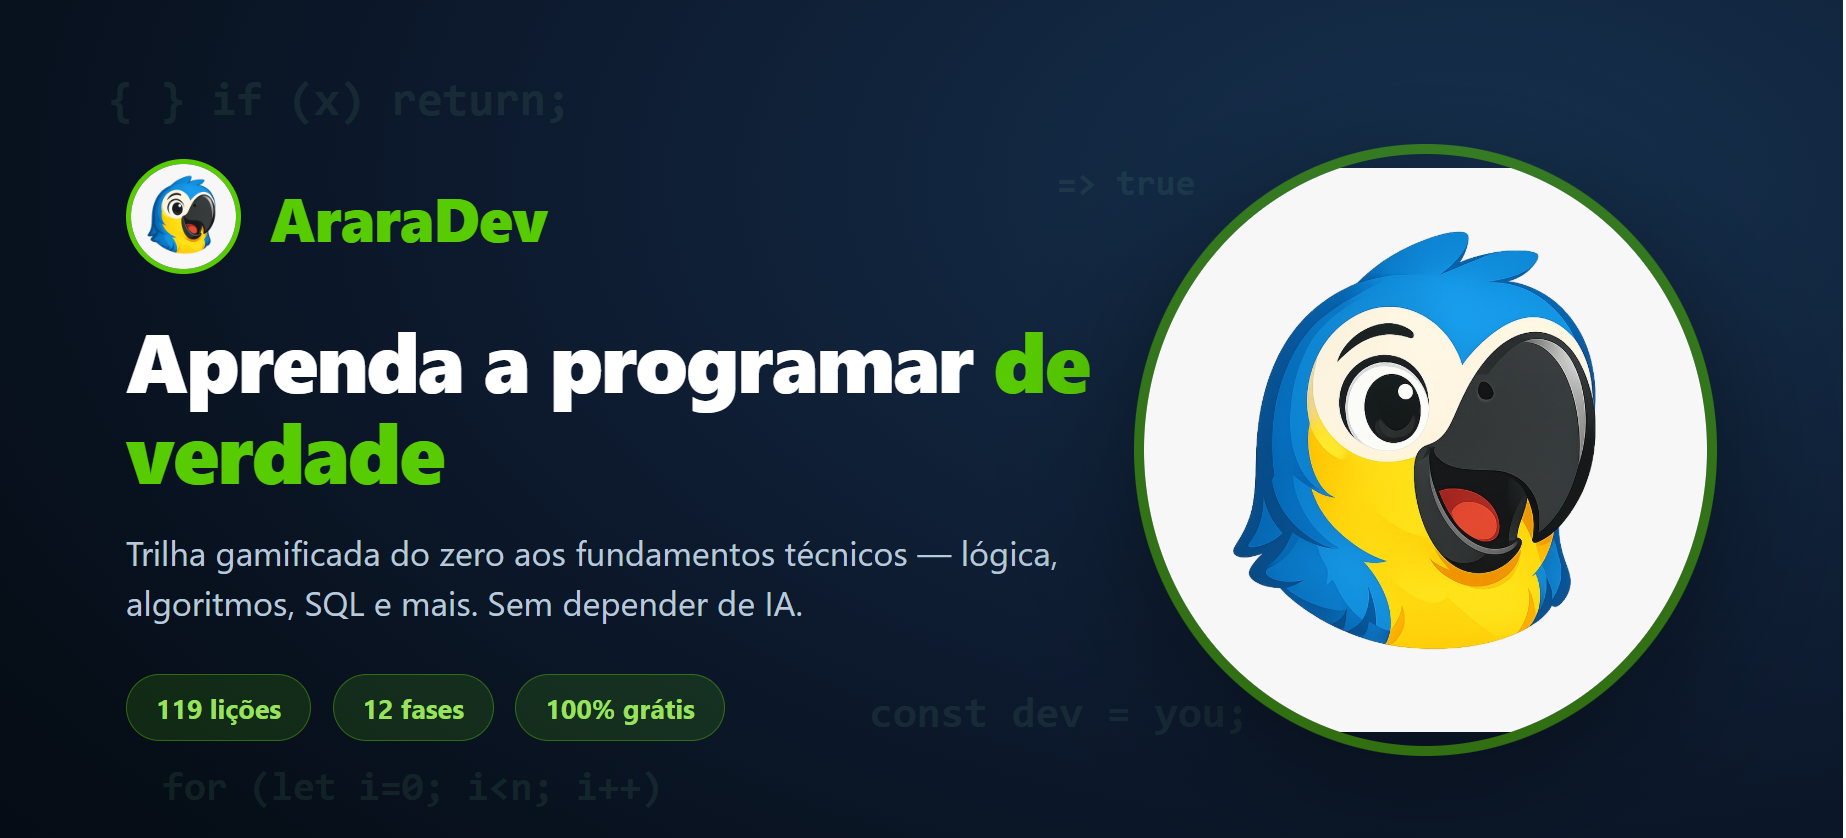
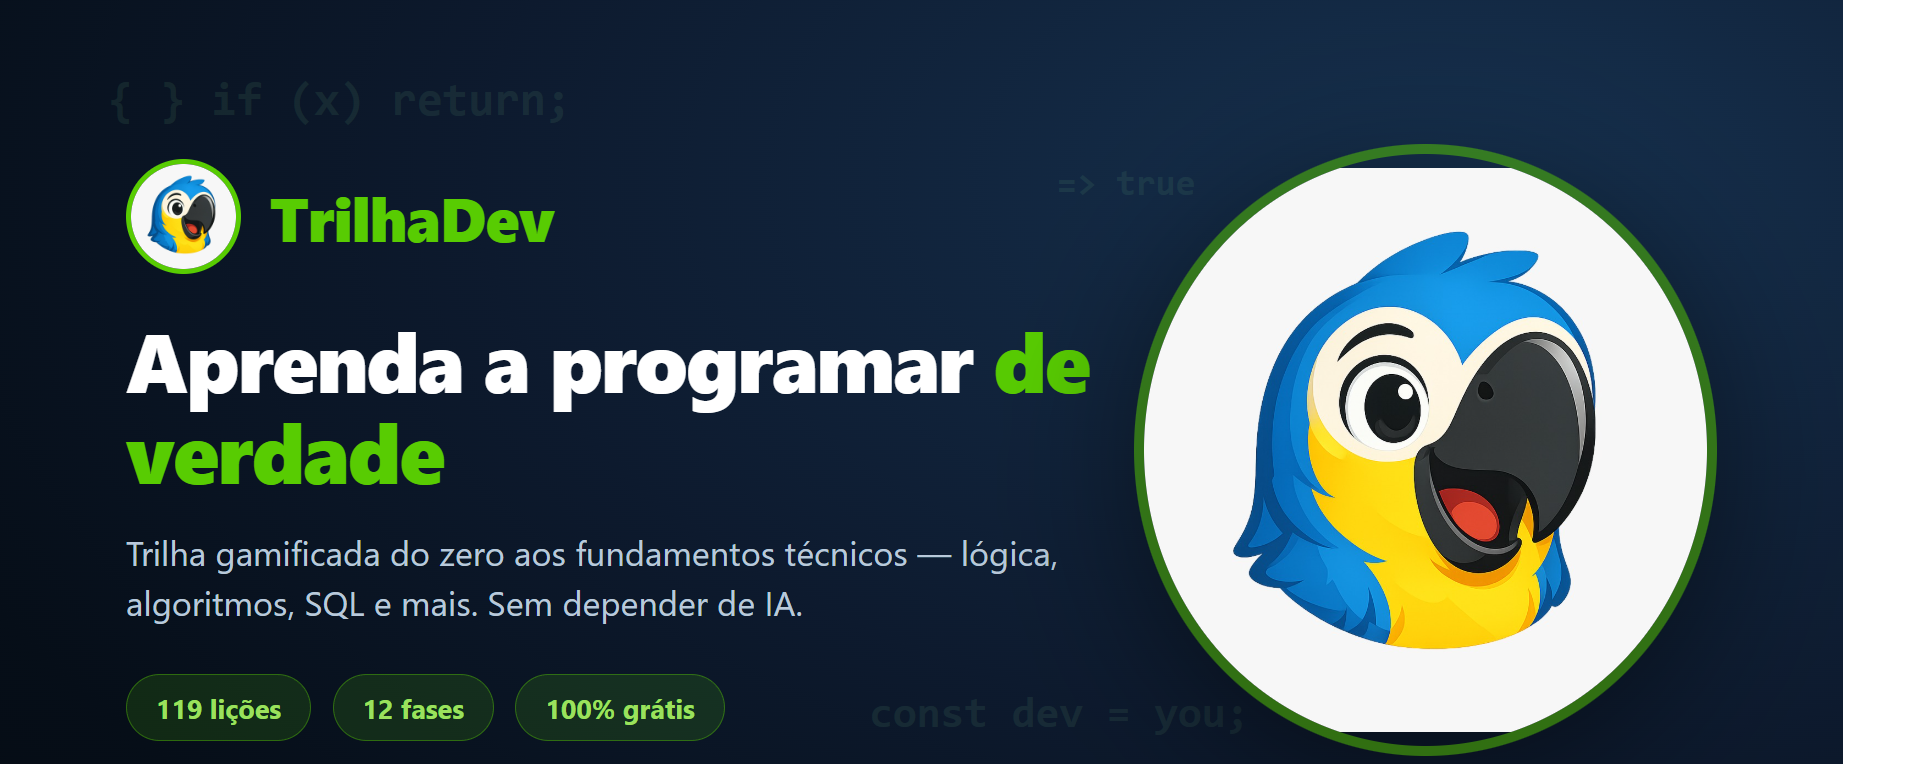
Rebrand AraraDev -> TrilhaDev (nome exibido + appId)
- Nome exibido AraraDev -> TrilhaDev (mascote arara mantido)
- appId/package com.araradev.app -> com.trilhadev.app (move MainActivity,
  namespace, applicationId, strings, capacitor.config)
- Atualiza UI (client), admin (api), index.html/meta, robots, privacy,
  STORE_LISTING, feature graphic, CLAUDE.md/RELEASE.md
- Infra mantida de proposito: banco araradev, /var/www/araradev,
  araradev-release.jks, logoararadev.jpeg, repo araradev

diff --git a/api/index.js b/api/index.js
@@ -443,7 +443,7 @@ const LOGIN_HTML = `<!DOCTYPE html>
 <html lang="pt-BR"><head><meta charset="UTF-8"><meta name="viewport" content="width=device-width,initial-scale=1">
 <link rel="preconnect" href="https://fonts.googleapis.com"><link rel="preconnect" href="https://fonts.gstatic.com" crossorigin>
 <link href="https://fonts.googleapis.com/css2?family=Outfit:wght@400;600;700;800;900&display=swap" rel="stylesheet">
-<title>Admin — AraraDev</title><style>
+<title>Admin — TrilhaDev</title><style>
 *{box-sizing:border-box;margin:0;padding:0}
 body{font-family:'Outfit',system-ui,sans-serif;min-height:100vh;display:flex;align-items:center;justify-content:center;background:linear-gradient(180deg,#0d1a2e 0%,#091420 40%,#060e18 70%,#04090f 100%);color:#e8f4ff;padding:20px}
 .card{background:#1a2d42;border:1px solid #1e3a54;border-radius:18px;padding:40px 36px;width:100%;max-width:380px;box-shadow:0 20px 60px rgba(0,0,0,.4)}
@@ -458,8 +458,8 @@ button{display:block;width:100%;padding:13px;margin-top:8px;background:#58cc02;c
 button:hover{background:#4ab301}
 .err{color:#ff6b6b;font-size:.82rem;margin-top:14px;text-align:center;background:rgba(255,75,75,.08);border:1px solid rgba(255,75,75,.2);border-radius:8px;padding:8px}
 </style></head><body><div class="card">
-<img class="logo" src="/logoararadev.jpeg" alt="AraraDev">
-<h1>AraraDev Admin</h1>
+<img class="logo" src="/logoararadev.jpeg" alt="TrilhaDev">
+<h1>TrilhaDev Admin</h1>
 <p class="sub">Painel administrativo</p>
 <form method="POST" action="/admin/login">
 <div class="field"><label>Usuário</label><input type="text" name="username" autocomplete="off" required></div>
@@ -475,7 +475,7 @@ const DASHBOARD_HTML = `<!DOCTYPE html>
 <meta charset="UTF-8"><meta name="viewport" content="width=device-width,initial-scale=1">
 <link rel="preconnect" href="https://fonts.googleapis.com"><link rel="preconnect" href="https://fonts.gstatic.com" crossorigin>
 <link href="https://fonts.googleapis.com/css2?family=Outfit:wght@400;600;700;800;900&display=swap" rel="stylesheet">
-<title>Admin — AraraDev</title>
+<title>Admin — TrilhaDev</title>
 <style>
 *,*::before,*::after{box-sizing:border-box;margin:0;padding:0}
 :root{--surface:#15233a;--surface2:#1c2f4a;--border:#1e3a54;--green:#58cc02;--blue:#1cb0f6;--gold:#ffc800;--purple:#a974ff;--text:#e8f4ff;--muted:#6b8fa8;--red:#ff5b5b}
@@ -558,7 +558,7 @@ tbody tr:hover td{background:rgba(88,204,2,.03)}
 </head>
 <body>
 <header class="adm-hdr">
-  <div class="adm-brand"><img src="/logoararadev.jpeg" alt="AraraDev">AraraDev Admin</div>
+  <div class="adm-brand"><img src="/logoararadev.jpeg" alt="TrilhaDev">TrilhaDev Admin</div>
   <div class="adm-actions">
     <button class="adm-btn" onclick="load()">↻ Atualizar</button>
     <a class="adm-btn" href="/admin/api/export">⬇ CSV</a>
@@ -852,4 +852,4 @@ app.get('*', (req, res, next) => {
   res.sendFile(path.join(WEB_DIR, 'index.html'));
 });
 
-app.listen(PORT, () => console.log(`AraraDev running → http://localhost:${PORT}`));
+app.listen(PORT, () => console.log(`TrilhaDev running → http://localhost:${PORT}`));

diff --git a/client/src/pages/Landing.tsx b/client/src/pages/Landing.tsx
@@ -177,8 +177,8 @@ export default function Landing() {
       <header className="lp-header">
         <div className="lp-header-inner">
           <a href="/" className="lp-brand">
-            <img src="/logoararadev.jpeg" className="lp-logo" alt="AraraDev" />
-            <span className="lp-brand-name">AraraDev</span>
+            <img src="/logoararadev.jpeg" className="lp-logo" alt="TrilhaDev" />
+            <span className="lp-brand-name">TrilhaDev</span>
           </a>
           <nav className="lp-nav">
             <button className="lp-btn-ghost" onClick={() => open('login')}>Entrar</button>
@@ -213,7 +213,7 @@ export default function Landing() {
             <div className="lp-phone-screen">
               <div className="lp-mini-top">
                 <span className="lp-mini-brand">
-                  <img src="/logoararadev.jpeg" alt="" className="lp-mini-logo" /> AraraDev
+                  <img src="/logoararadev.jpeg" alt="" className="lp-mini-logo" /> TrilhaDev
                 </span>
                 <span className="lp-mini-xp">{ICONS.bolt2} 480</span>
               </div>
@@ -391,7 +391,7 @@ print(soma)`}</code></pre>
         <div className="lp-container lp-footer-inner">
           <span className="lp-brand">
             <img src="/logoararadev.jpeg" className="lp-logo-sm" alt="" />
-            <span>AraraDev</span>
+            <span>TrilhaDev</span>
           </span>
           <span className="lp-footer-copy">Trilha de fundamentos técnicos</span>
         </div>
@@ -407,8 +407,8 @@ print(soma)`}</code></pre>
           <div className="auth-card">
             <button className="auth-close" onClick={() => setAuthOpen(false)}>✕</button>
             <div className="auth-brand">
-              <img src="/logoararadev.jpeg" className="auth-logo" alt="AraraDev" />
-              <span className="auth-brand-name">AraraDev</span>
+              <img src="/logoararadev.jpeg" className="auth-logo" alt="TrilhaDev" />
+              <span className="auth-brand-name">TrilhaDev</span>
             </div>
 
             <div className="auth-tabs">

diff --git a/client/src/pages/Onboarding.tsx b/client/src/pages/Onboarding.tsx
@@ -194,9 +194,9 @@ export default function Onboarding() {
 
       {step === 1 && (
         <section className="ob-card intro">
-          <img src="/logoararadev.jpeg" className="ob-mascot" alt="AraraDev" />
+          <img src="/logoararadev.jpeg" className="ob-mascot" alt="TrilhaDev" />
           <h1>Vamos montar sua trilha?</h1>
-          <p>Antes de começar, responda rapidinho para o AraraDev ajustar ritmo, foco e ponto de partida.</p>
+          <p>Antes de começar, responda rapidinho para o TrilhaDev ajustar ritmo, foco e ponto de partida.</p>
           <button className="ob-primary" onClick={() => setStep(2)}>Continuar</button>
           <button className="ob-login-link" onClick={() => { setLoginError(''); setLoginOpen(true); }}>Já tenho conta? Entrar</button>
         </section>
@@ -257,7 +257,7 @@ export default function Onboarding() {
 
       {step === 6 && saving && (
         <section className="ob-card analyzing">
-          <h1>Montando sua trilha AraraDev</h1>
+          <h1>Montando sua trilha TrilhaDev</h1>
           <div className="ob-ring" style={{ background: `conic-gradient(var(--green) 0 ${loadPct}%, rgba(255,255,255,0.12) ${loadPct}% 100%)` }}><span>{loadPct}%</span></div>
           <div className="ob-checklist">
             <span style={{ opacity: loadPct > 15 ? 1 : 0.35 }}>{loadPct > 15 ? '✓' : '⋯'} Analisando {selectedGoalLabel.toLowerCase()}</span>
@@ -270,7 +270,7 @@ export default function Onboarding() {
 
       {step === 7 && (
         <section className="ob-card account">
-          <img src="/logoararadev.jpeg" className="ob-mascot" alt="AraraDev" />
+          <img src="/logoararadev.jpeg" className="ob-mascot" alt="TrilhaDev" />
           <h1>Sua trilha esta pronta</h1>
           <p>Crie sua conta gratis para salvar o plano, XP, vidas e progresso.</p>
           <form className="ob-account-form" onSubmit={createAccount}>
@@ -324,8 +324,8 @@ export default function Onboarding() {
           <div className="auth-card">
             <button className="auth-close" onClick={() => setLoginOpen(false)}>✕</button>
             <div className="auth-brand">
-              <img src="/logoararadev.jpeg" className="auth-logo" alt="AraraDev" />
-              <span className="auth-brand-name">AraraDev</span>
+              <img src="/logoararadev.jpeg" className="auth-logo" alt="TrilhaDev" />
+              <span className="auth-brand-name">TrilhaDev</span>
             </div>
             <h2 style={{ textAlign: 'center', margin: '0 0 16px' }}>Entrar</h2>
             <form onSubmit={doLogin}>

diff --git a/docs/privacy.html b/docs/privacy.html
@@ -3,7 +3,7 @@
 <head>
   <meta charset="UTF-8" />
   <meta name="viewport" content="width=device-width, initial-scale=1.0" />
-  <title>Política de Privacidade — AraraDev</title>
+  <title>Política de Privacidade — TrilhaDev</title>
   <style>
     body { font-family: system-ui, sans-serif; max-width: 720px; margin: 40px auto; padding: 0 16px; line-height: 1.6; color: #222; }
     h1 { font-size: 1.8rem; }
@@ -12,10 +12,10 @@
   </style>
 </head>
 <body>
-  <h1>Política de Privacidade — AraraDev</h1>
+  <h1>Política de Privacidade — TrilhaDev</h1>
   <p>Última atualização: 15/06/2026</p>
 
-  <p>O AraraDev é um aplicativo de aprendizado de programação (trilha gamificada de lições).
+  <p>O TrilhaDev é um aplicativo de aprendizado de programação (trilha gamificada de lições).
   Esta política explica quais dados coletamos e como usamos.</p>
 
   <h2>Dados que coletamos</h2>
@@ -35,7 +35,7 @@
 
   <h2>Onde os dados ficam armazenados</h2>
   <p>Seus dados (conta e progresso) são armazenados em um banco de dados em servidor próprio,
-  usado exclusivamente para o funcionamento do AraraDev.</p>
+  usado exclusivamente para o funcionamento do TrilhaDev.</p>
 
   <h2>Exclusão de conta e dados</h2>
   <p>Para solicitar a exclusão da sua conta e de todos os dados associados, envie um e-mail para
@@ -44,6 +44,6 @@
   <h2>Contato</h2>
   <p>Dúvidas sobre privacidade: <a href="mailto:[email redacted]">[email redacted]</a></p>
 
-  <footer>AraraDev — app educacional de programação.</footer>
+  <footer>TrilhaDev — app educacional de programação.</footer>
 </body>
 </html>

diff --git a/client/index.html b/client/index.html
@@ -6,7 +6,7 @@
     <meta name="viewport" content="width=device-width, initial-scale=1.0, viewport-fit=cover" />
     <meta name="theme-color" content="#04090f" />
 
-    <title>AraraDev — Aprenda a programar de verdade</title>
+    <title>TrilhaDev — Aprenda a programar de verdade</title>
     <meta name="description" content="Trilha gamificada do zero aos fundamentos técnicos: lógica, SQL, algoritmos, debug, testes e arquitetura. 119 lições, 12 fases, 100% grátis — sem depender de IA." />
 
     <!-- TODO: trocar pela URL real do deploy (ex: https://araradev.netlify.app) -->
@@ -14,8 +14,8 @@
 
     <!-- Open Graph (WhatsApp, Facebook, LinkedIn) -->
     <meta property="og:type" content="website" />
-    <meta property="og:site_name" content="AraraDev" />
-    <meta property="og:title" content="AraraDev — Aprenda a programar de verdade" />
+    <meta property="og:site_name" content="TrilhaDev" />
+    <meta property="og:title" content="TrilhaDev — Aprenda a programar de verdade" />
     <meta property="og:description" content="Trilha gamificada do zero aos fundamentos técnicos. 119 lições, 12 fases, 100% grátis — sem depender de IA." />
     <meta property="og:url" content="https://araradev.netlify.app/" />
     <meta property="og:image" content="https://araradev.netlify.app/logoararadev.jpeg" />
@@ -23,7 +23,7 @@
 
     <!-- Twitter/X -->
     <meta name="twitter:card" content="summary_large_image" />
-    <meta name="twitter:title" content="AraraDev — Aprenda a programar de verdade" />
+    <meta name="twitter:title" content="TrilhaDev — Aprenda a programar de verdade" />
     <meta name="twitter:description" content="Trilha gamificada dos fundamentos técnicos. 119 lições, 100% grátis — sem depender de IA." />
     <meta name="twitter:image" content="https://araradev.netlify.app/logoararadev.jpeg" />
 

diff --git a/client/src/data/lessons.ts b/client/src/data/lessons.ts
@@ -1745,7 +1745,7 @@ const apiKey = process.env.API_KEY;</code></pre>
       <pre><code>const hash = await bcrypt.hash(senha, 10);
 // no login:
 await bcrypt.compare(senhaDigitada, hash); // true/false</code></pre>
-      <p>Assim, mesmo se vazar o banco, ninguém lê as senhas. (O AraraDev faz exatamente isso.)</p>
+      <p>Assim, mesmo se vazar o banco, ninguém lê as senhas. (O TrilhaDev faz exatamente isso.)</p>
     `,
     quiz: [
       { q: 'Como senha deve ser guardada?', options: ['texto puro', 'hash (ex: bcrypt)', 'em maiúsculas', 'na URL'], answer: 1 },
@@ -2243,7 +2243,7 @@ console.log("3");
     content: `
       <p>No React, a tela é montada com <strong>componentes</strong>: funções que retornam <strong>JSX</strong> (parece HTML dentro do JavaScript).</p>
       <pre><code>function Saudacao() {
-  return &lt;h1&gt;Olá, AraraDev!&lt;/h1&gt;;
+  return &lt;h1&gt;Olá, TrilhaDev!&lt;/h1&gt;;
 }</code></pre>
       <p>Um componente é reutilizável e pode ser usado dentro de outro, como se fosse uma tag:</p>
       <pre><code>function App() {
@@ -2361,7 +2361,7 @@ function Contador() {
     type: 'checklist',
     xp: 10,
     content: `
-      <p>Abra um projeto React seu (ou o próprio AraraDev). Escolha 1 componente e, sem IA, identifique no código:</p>
+      <p>Abra um projeto React seu (ou o próprio TrilhaDev). Escolha 1 componente e, sem IA, identifique no código:</p>
       <ol>
         <li>Quais <strong>props</strong> ele recebe?</li>
         <li>Ele tem <strong>estado</strong> (<code>useState</code>)? O que esse estado representa?</li>

diff --git a/client/src/components/Header.tsx b/client/src/components/Header.tsx
@@ -20,8 +20,8 @@ export default function Header() {
     <header className="topbar">
       <div className="topbar-main">
         <div className="topbar-brand">
-          <img src="/logoararadev.jpeg" className="brand-mascote" alt="AraraDev" />
-          <span className="brand-name">AraraDev</span>
+          <img src="/logoararadev.jpeg" className="brand-mascote" alt="TrilhaDev" />
+          <span className="brand-name">TrilhaDev</span>
         </div>
 
         <div className="topbar-widgets">

diff --git a/client/src/components/Modals.tsx b/client/src/components/Modals.tsx
@@ -28,7 +28,7 @@ export function ProfileModal({ onClose }: { onClose: () => void }) {
     <Overlay onClose={onClose}>
       <button className="close" onClick={onClose}>×</button>
       <div style={{ textAlign: 'center', marginBottom: 4 }}>
-        <img src="/logoararadev.jpeg" className="avatar-display" style={{ width: 80, height: 80, borderRadius: '50%', objectFit: 'cover', border: '3px solid var(--green)' }} alt="AraraDev" />
+        <img src="/logoararadev.jpeg" className="avatar-display" style={{ width: 80, height: 80, borderRadius: '50%', objectFit: 'cover', border: '3px solid var(--green)' }} alt="TrilhaDev" />
         <h3 className="profile-name">{user?.name || '...'}</h3>
         <p className="profile-email">{user?.email || ''}</p>
       </div>
@@ -204,7 +204,7 @@ export function SettingsModal({ onClose }: { onClose: () => void }) {
           <button className="danger-btn" onClick={sair} disabled={busy}>Sair</button>
         </div>
       </div>
-      <p className="app-version">AraraDev v1.0</p>
+      <p className="app-version">TrilhaDev v1.0</p>
     </Overlay>
   );
 }

diff --git a/docs/store-screenshots/feature-graphic.html b/docs/store-screenshots/feature-graphic.html
@@ -37,8 +37,8 @@
     <div class="code c4">const dev = you;</div>
     <div class="left">
       <div class="brand">
-        <img src="https://trilhadev.app.br/logoararadev.jpeg" alt="AraraDev" />
-        <span>AraraDev</span>
+        <img src="https://trilhadev.app.br/logoararadev.jpeg" alt="TrilhaDev" />
+        <span>TrilhaDev</span>
       </div>
       <h1>Aprenda a programar <span class="g">de verdade</span></h1>
       <div class="tag">Trilha gamificada do zero aos fundamentos técnicos — lógica, algoritmos, SQL e mais. Sem depender de IA.</div>

diff --git a/client/src/lib/progress.ts b/client/src/lib/progress.ts
@@ -16,7 +16,7 @@ export const BADGES: Badge[] = [
   { id: 'ten-lessons',    icon: '📚', name: '10 lições',         check: (p) => Object.keys(p.completed).length >= 10 },
   { id: 'thirty-lessons', icon: '🎯', name: '30 lições',         check: (p) => Object.keys(p.completed).length >= 30 },
   { id: 'fifty-lessons',  icon: '🏆', name: '50 lições',         check: (p) => Object.keys(p.completed).length >= 50 },
-  { id: 'all-lessons',    icon: '🦜', name: 'AraraDev Master',   check: (p) => Object.keys(p.completed).length >= LESSONS.length },
+  { id: 'all-lessons',    icon: '🦜', name: 'TrilhaDev Master',   check: (p) => Object.keys(p.completed).length >= LESSONS.length },
   { id: 'streak-3',       icon: '🔥', name: 'Streak 3 dias',     check: (p) => p.streak.count >= 3 },
   { id: 'streak-7',       icon: '⚡', name: 'Streak 7 dias',     check: (p) => p.streak.count >= 7 },
   { id: 'correct-25',      icon: '✅', name: '25 acertos',          check: (p) => p.stats.correctAnswers >= 25 },

diff --git a/CLAUDE.md b/CLAUDE.md
@@ -1,4 +1,9 @@
-# AraraDev — contexto pra IA
+# TrilhaDev — contexto pra IA
+
+> Rebrand 2026-06-22: nome exibido **AraraDev → TrilhaDev** (mascote arara mantido).
+> appId/package **com.araradev.app → com.trilhadev.app**. Infra mantém nomes antigos
+> de propósito: banco `araradev`, paths `/var/www/araradev`, keystore
+> `araradev-release.jks`, arquivos `logoararadev.jpeg`, repo `github.com/Lucasmagdev/araradev`.
 
 App React (client) + API + Capacitor Android. Roda no Android Studio pra teste
 e vai pra **Play Store**. Toda mudança deve considerar o impacto na publicação,
@@ -6,7 +11,7 @@ não só "funciona no navegador".
 
 ## Regras que afetam publicação
 
-1. **appId `com.araradev.app` é definitivo.** Mudar = app novo na Play Store
+1. **appId `com.trilhadev.app` é definitivo.** Mudar = app novo na Play Store
    (perde reviews, instalações, histórico). Nunca alterar sem confirmar com o usuário.
 
 2. **HTTP em texto plano é débito técnico conhecido** (`capacitor.config.json`

diff --git a/STORE_LISTING.md b/STORE_LISTING.md
@@ -1,4 +1,4 @@
-# Ficha da loja — AraraDev (Google Play)
+# Ficha da loja — TrilhaDev (Google Play)
 
 ## Política de privacidade
 
@@ -22,9 +22,9 @@ Aprenda programação na prática com trilha gamificada e exercícios de código
 ## Descrição longa (máx. 4000 caracteres)
 
 ```
-🦜 AraraDev — aprenda a programar de verdade
+🦜 TrilhaDev — aprenda a programar de verdade
 
-O AraraDev é uma trilha gamificada pra aprender lógica de programação do zero,
+O TrilhaDev é uma trilha gamificada pra aprender lógica de programação do zero,
 com lições curtas, exercícios de código direto no app e acompanhamento de progresso.
 
 📚 O QUE VOCÊ VAI APRENDER